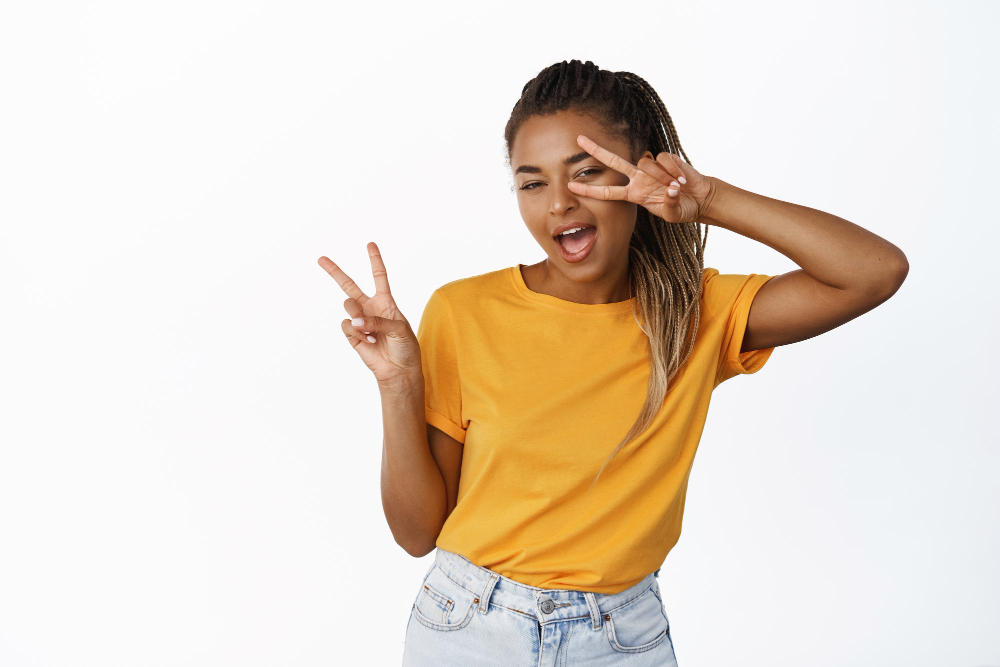
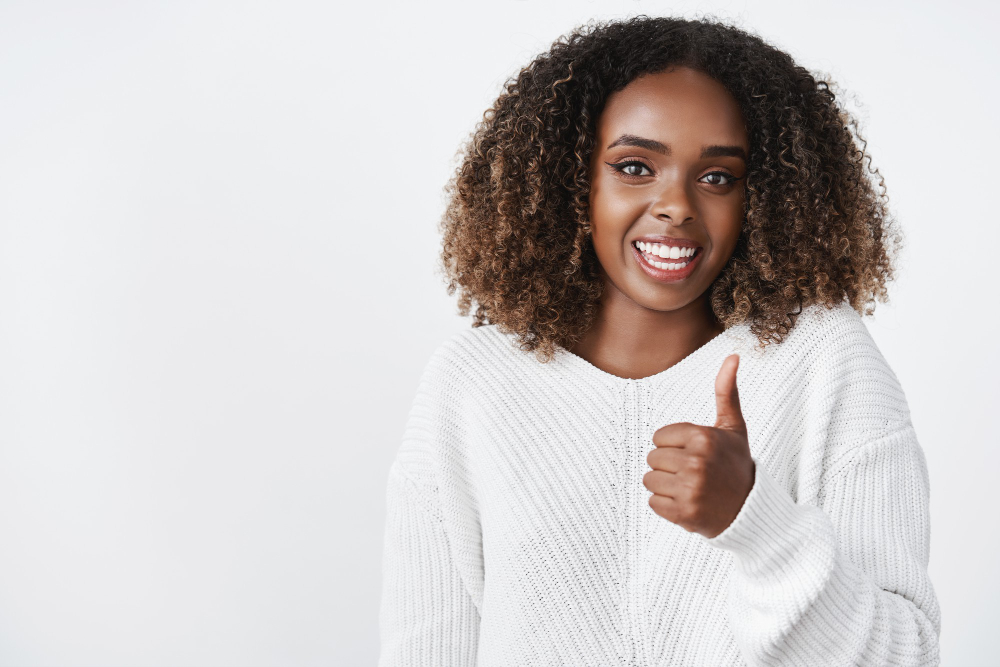
s

diff --git a/app/parallax/Parallax.js b/app/parallax/Parallax.js
@@ -7,18 +7,57 @@ import styles from "./styles/parallax.module.css";
 import { useEffect } from "react";
 import MobileLandingPageHeader from "../mobileLandiPageHeader/page";
 import Image from "next/image";
+import { motion } from "framer-motion";
+
+import Lenis from '@studio-freight/lenis';
+
+
 gsap.registerPlugin(ScrollTrigger);
 
 const Parallax = ({swingProp}) => {
+
+//i think this is subject, you ca choose to use this or the <reactlenis roo>
+useEffect(() => {
+
+
+  const lenis = new Lenis({
+    smooth: true,
+    syncTouch: true, // This is CRITICAL for mobile
+  });
+  
+
+  function raf(time) {
+    
+  lenis.raf(time);
+    lenis.raf(time);
+    requestAnimationFrame(raf);
+  }
+
+  requestAnimationFrame(raf);
+
+  // Sync ScrollTrigger if you're using it
+  lenis.on("scroll", ScrollTrigger.update);
+
+  ScrollTrigger.defaults({
+    scroller: document.querySelector(".lenis"),
+  });
+
+  ScrollTrigger.refresh();
+
+  return () => {
+    lenis.destroy();
+  };
+}, []);
+
     useEffect(()=>{
         const ScrollTriggerSetting={
             trigger:".main",
-            start:swingProp?"top 10%":"top 20%",
+            start:swingProp?"top 30%":"top 50%",
             toggleActions:"play reverse play reverse"
         };
-        const leftXValues=[-800,-900,-400];
-        const rightXValues=[800,900,400];
-        const leftRotationValues=[-30,-30,-35];
+        const leftXValues=[-800,-900,-50];
+        const rightXValues=[800,900,0];
+        const leftRotationValues=[-30,-30,-15];
         const rightRotationValues=[30,20,35];
         const yValues=[0,-50,-150]
         gsap.utils.toArray(".row").forEach((row,index)=>{
@@ -28,7 +67,7 @@ const Parallax = ({swingProp}) => {
                 x:leftXValues[index],
                 scrollTrigger:{
                     trigger:".main",
-                    start:swingProp?"top 10%":"top 25%",
+                    start:swingProp?"top 40%":"top 25%",
                     end:"150% bottom",
                     scrub:true,
                     onUpdate: (self)=>{
@@ -48,7 +87,7 @@ const Parallax = ({swingProp}) => {
             });
             gsap.to(".logo",{
                 scale:1,
-                duration:1,
+                duration:2,
                 ease:"power1.out",
                 scrollTrigger:ScrollTriggerSetting,
             });
@@ -72,25 +111,30 @@ const Parallax = ({swingProp}) => {
 
     },[])
 
+
+
+
+
+
 const generateRows = () => {
 
   const rows = [];
 
   for (let i = 1; i <= 3; i++) {
     rows.push(
-      <div className={`${styles.row} row`}key={i}>
+      <div className={`${styles.row} row`}key={i}
+      style={{transform:swingProp?"scale(0.9)":""}}>
         <div className={`${styles.card} ${styles.cardLeft}  cardLeft`}>
           <Image src={`/img-${2 * i - 1}.jpg`} alt={`img-${2 * i - 1}`} 
-            width={swingProp?250:350}
-            height={swingProp?250:350}
+            width={swingProp?250:700}
+            height={swingProp?250:400}
             priority
           />
         </div>
         <div className={`${styles.card} ${styles.cardRight} cardRight`}>
           <Image src={`/img-${2 * i}.jpg`} alt={`img-${2 * i}`}
-          
-            width={swingProp?250:350}
-            height={swingProp?250:350}
+            width={swingProp?250:700}
+            height={swingProp?250:400}
             priority
           />
         </div>
@@ -103,16 +147,19 @@ const generateRows = () => {
 
 
     return (
-        <div className={styles.container}>
+        <div className={`${styles.container} lenis`}>
             <ReactLenis root>
-                <section className={styles.hero}>
-                    <div className={styles.img}>
-                        
-                        <img src="/bag.png" alt=""
-                        style={{width:'100%',height:'100%',objectFit:'cover'}}
+                <motion.section className={styles.hero}
+                    initial={{opacity:0,y:300}}
+                    animate={{opacity:1,y:0}}
+                    transition={{type:'keyframes',duration:1,delay:0.5}}
+                >
+                    <div className={styles.image}>
+                        <img src={swingProp?"wezzie2.png": "/logo2.jpg"} alt=""
+                        style={{width:swingProp?"100%":'100%',height:swingProp?"100%":'150%',objectFit:'cover'}}
                         />
                     </div>
-                </section>
+                </motion.section>
                 <section className={`${styles.main} main`}>
                     <div className={styles.mainContent}>
                         <div className={`${styles.logo} logo`}>

diff --git a/app/parallax/styles/parallax.module.css b/app/parallax/styles/parallax.module.css
@@ -16,31 +16,47 @@
 
 
 .container section{
+  position: relative;
     width: 100vw;
     display: flex;
     justify-content: center;
     align-items: center;
     position: relative;
-    margin: 10px;
   scroll-snap-align: start;
 }
 
-.img .hero {
-    width: 50%;
-    aspect-ratio: 1;
+.image{
+  width: 100vw;
 }
 .hero{
-    
+  display: flex;
+  align-items: center;
+  justify-content: center;
   min-height: 100vh;
+height: 100vh;
+  border: none;
+    aspect-ratio: 1;
+
 }
 .footer{
     height: 50vh;
 }
 .main{
     width: 100vw;
-    height: 150vh;
+    height: 200vh;
     flex-direction: column;
   min-height: 100vh;
+  max-width: 100vw;
+    overflow-x: hidden;
+}
+
+@media (max-width:600) {
+  .main{
+    height: 110vh;
+  }
+  .image{
+    height: 100vh;
+  }
 }
 .row{
     position: relative;

diff --git a/components/BottomMenuWrapper.js b/components/BottomMenuWrapper.js
@@ -5,7 +5,8 @@ import BottomMenu from "./bottomMenu";
 
 export default function BottomMenuWrapper() {
   const pathname = usePathname();
-  const hideOnRoutes = ["/login", "/admin", "/blog","/postItems","/profile"]; // adjust routes here
+  console.log("..........",pathname);
+  const hideOnRoutes = ["/login", "/admin", "/blog","/postItems","/profile","/"]; // adjust routes here
 
   const shouldHide = hideOnRoutes.some((route) => pathname.startsWith(route));
 

diff --git a/app/globals.css b/app/globals.css
@@ -45,7 +45,7 @@ body {body {
   /*animation: swappic 60s infinite;    /* Your animation */
  z-index: 1;
  
-  overflow: hidden; /* optional if using Lenis or custom scroll */
+ 
 }
 
 }.myColor {
@@ -207,3 +207,6 @@ input[type="file"]::file-selector-button:hover {
   background-color: #17161a; /* darker indigo */
 }
 
+.lenis {
+  height: 100%;
+}

diff --git a/app/mobileLandiPageHeader/styles/mobileLandingPageHeader.module.css b/app/mobileLandiPageHeader/styles/mobileLandingPageHeader.module.css
@@ -1,7 +1,6 @@
 .container{
     position: relative;
     width: 100vw;
-
     
 }
 @media (min-width:1000px) {
@@ -18,6 +17,8 @@
     grid-template-columns: 1fr 1fr;
     grid-template-rows: 1fr 1fr;
     gap: 10px;
+    margin: 20px;
+
 }
 .clipMaskImages div Image{
     margin: 5px;
